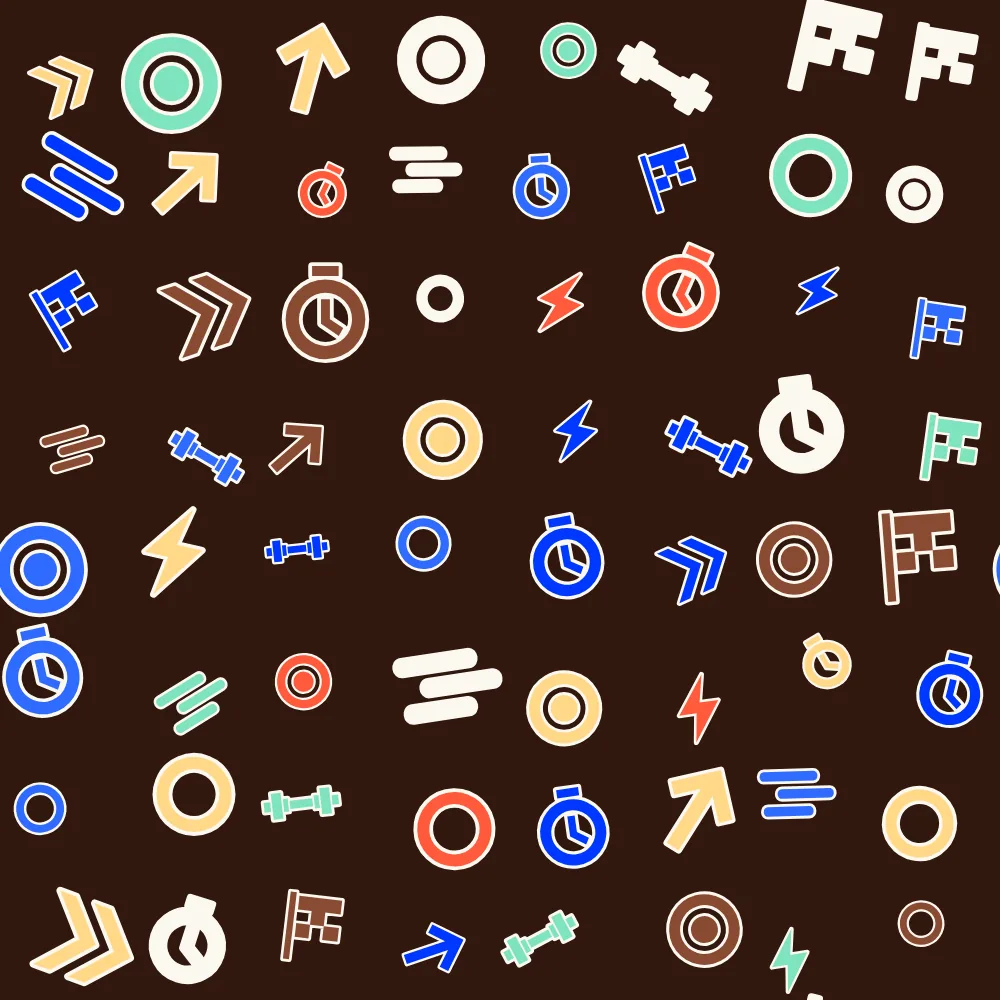
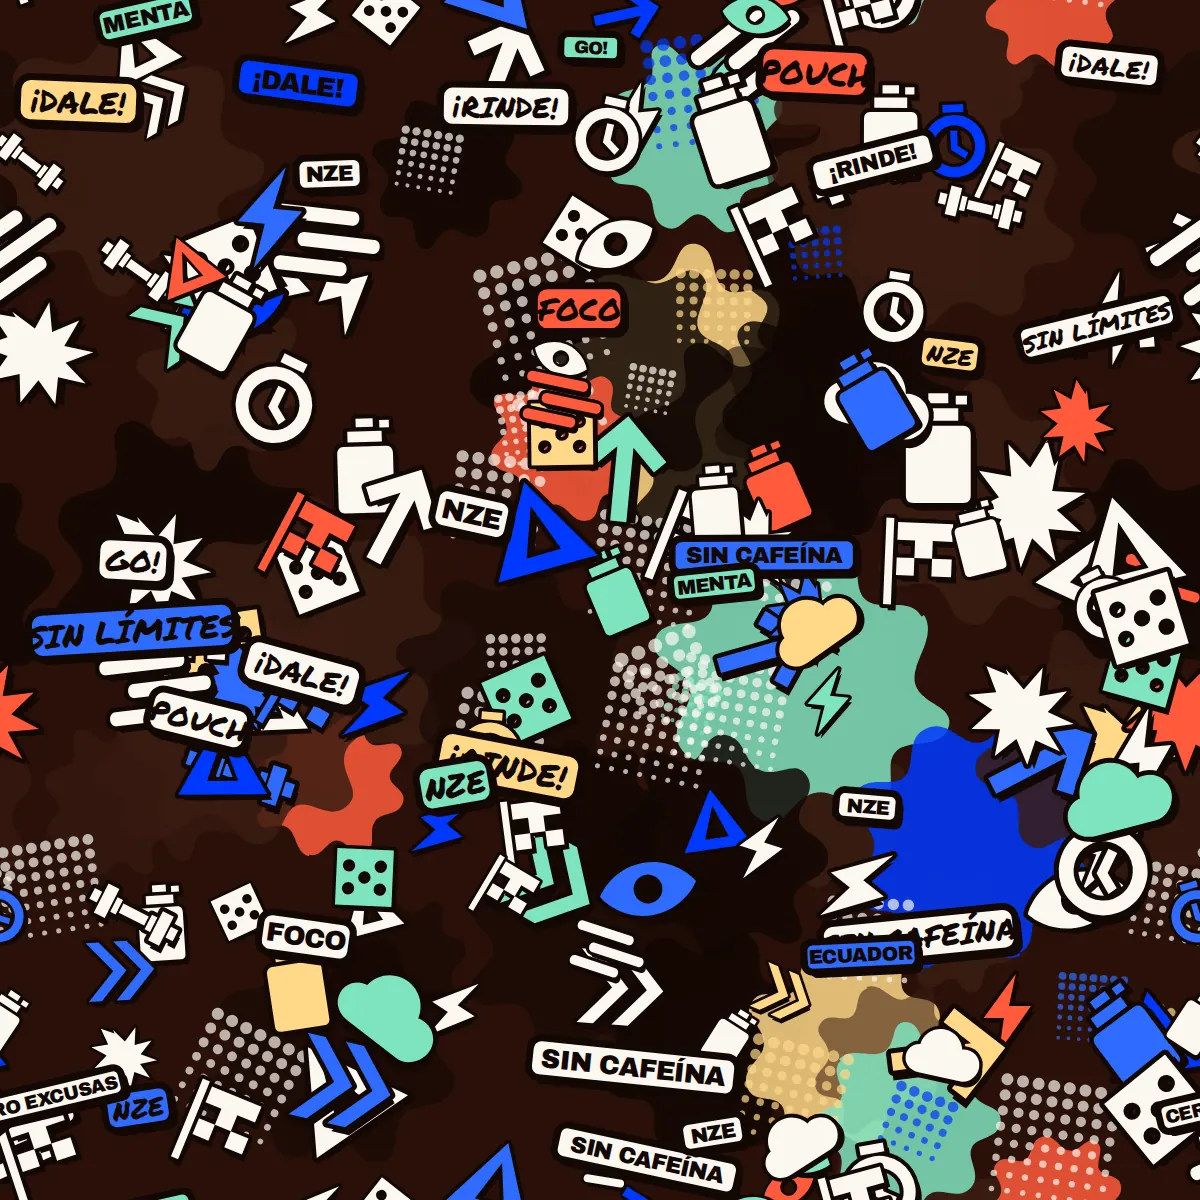
Muro sticker-bomb, sección más grande y módulo "Cuándo usarlos"
- Muro de grafitis rehecho como sticker-bomb denso: manchas, tramas de
  semitono, pegatinas con contorno grueso y sombra dura, y lettering
  propio ("¡RINDE!", "SIN LÍMITES", "FOCO", "NZE"). Empalma en los cuatro
  bordes. La sección crece de 116 a 214 px de relleno y el mosaico se
  amplía para que se lea cada pieza.
- El módulo de efectos pasa a ser "Cuándo usarlos": pestañas
  Entrenamiento, Trabajo, Estudio y Donde sea, cada una con su propia
  imagen, titular y texto. La imagen cambia con un fundido corto.
- Las cuatro portadas se generan en la paleta de marca, una por caso, y
  se cambian desde config.js con una sola línea por imagen.
- Fuera fx.js y el lienzo de fondo: el módulo ya no los usa.

Claude-Session: https://claude.ai/code/session_01KjcFSbWYiSCCsxuhcY9QgS

diff --git a/assets/css/styles.css b/assets/css/styles.css
@@ -61,7 +61,7 @@
    Cada palabra sobre el fondo lleva sombra: una dura pegada y una larga
    difusa. Es lo que hace que el texto parezca una capa encima y no algo
    impreso en la pared. Dentro de las cajas claras se anula. */
-.claim,.h2,.quote,.eyebrow,.lede,.fxpanel__copy,.fxpanel__when,
+.claim,.h2,.quote,.eyebrow,.lede,.uso__copy,.uso__titulo,
 .about__body p,.marks li,.contact b,.contact a,.contact span,
 .order-lite__hint,.flow__ctrl,.hero__kicker,.section-head p{
   text-shadow:var(--lift-txt);
@@ -271,10 +271,10 @@ main section[id]{scroll-margin-top:calc(var(--nav-h) + 16px)}
 /* ────────────────────────────────────── 8. MURO DE PEGATINAS ───────── */
 .muro{
   position:relative; isolation:isolate; overflow:hidden;
-  padding-block:clamp(66px,8.4vw,116px);
+  padding-block:clamp(112px,15vw,214px);
   background-color:var(--tierra-2);
   background-image:url('../img/grafiti.webp');
-  background-size:clamp(420px,46vw,700px);
+  background-size:clamp(520px,58vw,900px);
 }
 .muro__stickers{position:absolute; inset:0; z-index:0; pointer-events:none}
 
@@ -289,8 +289,8 @@ main section[id]{scroll-margin-top:calc(var(--nav-h) + 16px)}
 .muro__inner{position:relative; z-index:2; display:grid; place-items:center; text-align:center}
 /* Halo oscuro detrás de la frase: ninguna pegatina le quita legibilidad */
 .quote::before{
-  content:''; position:absolute; z-index:-1; inset:-14% -12%;
-  background:radial-gradient(closest-side, rgba(20,8,4,.92) 46%, rgba(20,8,4,.66) 72%, transparent);
+  content:''; position:absolute; z-index:-1; inset:-22% -16%;
+  background:radial-gradient(closest-side, rgba(20,8,4,.96) 52%, rgba(20,8,4,.78) 76%, transparent);
 }
 .quote{
   position:relative; display:grid; gap:.1em;
@@ -369,19 +369,9 @@ main section[id]{scroll-margin-top:calc(var(--nav-h) + 16px)}
   position:relative; isolation:isolate; overflow:hidden;
   background:var(--cobalto); border-block:4px solid var(--negro);
 }
-.efectos__canvas{position:absolute; inset:0; width:100%; height:100%; z-index:0; opacity:.5}
-.efectos__media{position:absolute; inset:0; z-index:0}
-.efectos__media video{width:100%; height:100%; object-fit:cover; opacity:.4}
-.efectos__inner{position:relative; z-index:2; display:grid; justify-items:center; text-align:center; gap:clamp(14px,2.2vw,24px)}
-.efectos__inner .h2{max-width:16ch}
-.efectos__panels{display:grid; width:min(100%,58ch); margin-top:6px}
-.fxpanel{grid-area:1/1; display:grid; gap:12px; justify-items:center}
-.fxpanel[hidden]{display:none}
-.fxpanel__when{
-  font-family:var(--marker); font-size:15px; color:var(--menta);
-  transform:rotate(-1.5deg);
-}
-.fxpanel__copy{font-size:clamp(16px,.55vw + 15px,19px); color:var(--crema); text-wrap:pretty}
+.efectos__inner{position:relative; z-index:2; display:grid; justify-items:center; gap:clamp(16px,2.4vw,26px)}
+.efectos__head{display:grid; gap:12px; justify-items:center; text-align:center}
+.efectos__head .h2{max-width:16ch}
 
 .tabs{
   box-shadow:var(--lift-sm);
@@ -409,6 +399,34 @@ main section[id]{scroll-margin-top:calc(var(--nav-h) + 16px)}
   transition:color .3s var(--ease); white-space:nowrap;
 }
 .tab[aria-selected="true"]{color:var(--negro)}
+
+/* Cuándo usarlos: imagen a un lado, texto al otro */
+.usos{
+  display:grid; gap:clamp(20px,3vw,40px); width:100%;
+  margin-top:clamp(8px,1.6vw,16px); align-items:center;
+}
+@media (min-width:860px){.usos{grid-template-columns:minmax(0,1fr) minmax(0,1fr)}}
+.usos__fig{
+  margin:0; border:4px solid var(--negro); border-radius:var(--r-lg);
+  overflow:hidden; box-shadow:var(--lift); background:var(--tierra-2);
+  transform:rotate(-1.2deg);
+}
+.usos__fig img{display:block; width:100%; height:auto; aspect-ratio:4/3; object-fit:cover}
+.usos__panels{display:grid}
+.uso{grid-area:1/1; display:grid; gap:12px; justify-items:start; text-align:left}
+.uso[hidden]{display:none}
+.uso__titulo{
+  font-family:var(--display); font-weight:400;
+  font-size:clamp(20px,2.2vw,30px); line-height:1.08;
+  letter-spacing:-.025em; text-transform:uppercase; text-wrap:balance;
+  text-shadow:var(--lift-display);
+}
+.uso__copy{font-size:clamp(16px,.55vw + 15px,19px); color:var(--crema); text-wrap:pretty; text-shadow:var(--lift-txt)}
+@media (max-width:859px){
+  .uso,.efectos__inner{justify-items:center}
+  .uso{text-align:center}
+}
+
 
 /* ────────────────────────────────────────────── 11. NOSOTROS ───────── */
 .about{display:grid; gap:clamp(28px,4vw,60px); align-items:center}

diff --git a/assets/js/config.js b/assets/js/config.js
@@ -86,30 +86,40 @@ window.TPP = {
   // Cada pestaña tiene su propia animación de fondo, generada en código.
   // Si consigues un clip real para alguna, añade `video: 'assets/video/xxx.mp4'`
   // y esa pestaña lo usará en lugar de la animación.
-  efectos: [
+  /* Cuándo usarlos. Cada caso tiene su propia imagen: para cambiarla,
+     deja el archivo en assets/img/ y apunta aquí la ruta. Nada más. */
+  usos: [
     {
-      id: 'minutos', label: 'Minutos', when: '0 – 10 minutos', tema: 'frost', tono: '#DCEFE2',
-      copy: 'El frescor de la menta llega al primer segundo. Mientras el pouch sigue puesto, ' +
-            'los activos se liberan por la mucosa de la boca, una vía muy vascularizada que entra ' +
-            'a circulación sin pasar primero por el hígado. Enciendes sin haber tomado un mililitro de líquido.',
+      id: 'entrenamiento', label: 'Entrenamiento',
+      foto: 'assets/img/uso-entrenamiento.webp',
+      titulo: 'Diez minutos antes de la primera serie',
+      copy: 'Te lo pones al calentar y ya estás dentro cuando tocas la barra. Sin líquido ' +
+            'que cargar, sin azúcar que te baje a media sesión y sin las manos ocupadas. ' +
+            'Aguanta puesto toda la rutina y lo retiras al terminar.',
     },
     {
-      id: 'horas', label: 'Horas', when: '1 – 3 horas', tema: 'pace', tono: '#DEEAF1',
-      copy: 'La ventana de trabajo. La L-Teanina sostiene una atención tranquila y la L-Tirosina es ' +
-            'el precursor que el cerebro gasta bajo presión. Sin azúcar no hay pico de insulina y, ' +
-            'por tanto, no hay caída reactiva una hora después.',
+      id: 'trabajo', label: 'Trabajo',
+      foto: 'assets/img/uso-trabajo.webp',
+      titulo: 'Para el bloque largo, no para el sprint',
+      copy: 'La L-Teanina sostiene una atención tranquila y la L-Tirosina es el precursor que ' +
+            'el cerebro gasta bajo presión. Al no llevar azúcar no hay pico de insulina y, ' +
+            'por tanto, tampoco la caída de una hora después.',
     },
     {
-      id: 'dias', label: 'Días', when: 'Día tras día', tema: 'pulse', tono: '#F0E4CB',
-      copy: 'Un pouch trae siempre la misma cantidad, así que dejas de adivinar la dosis. Nada que ' +
-            'cargar, nada que enfriar, nada que manche el esmalte. Y si quieres cortar, lo retiras: ' +
-            'con una lata ya te la tomaste.',
+      id: 'estudio', label: 'Estudio',
+      foto: 'assets/img/uso-estudio.webp',
+      titulo: 'Sesiones seguidas sin ir por otro café',
+      copy: 'Cada pouch trae siempre la misma cantidad, así que dejas de adivinar la dosis. ' +
+            'Sin cafeína no te roba el sueño de la noche, que es justo lo que arruina el ' +
+            'estudio del día siguiente.',
     },
     {
-      id: 'largo', label: 'A largo plazo', when: 'A largo plazo', tema: 'climb', tono: '#E3EDDF',
-      copy: 'Cambias la lata azucarada por un formato limpio y controlas tu día real. Cuando lleguen ' +
-            'la línea con cafeína y los electrolitos se cierra el círculo: foco para la cabeza, ' +
-            'energía para arrancar, sales para recuperar.',
+      id: 'donde-sea', label: 'Donde sea',
+      foto: 'assets/img/uso-donde-sea.webp',
+      titulo: 'En el bolsillo, en el bolso o en el carro',
+      copy: 'No se derrama, no hay que enfriarlo y no necesita agua. Carretera, turno largo, ' +
+            'viaje o mudanza: cabe donde quepa una lata pequeña y no deja olor, humo ni ' +
+            'nada que limpiar.',
     },
   ],
 };

diff --git a/assets/js/main.js b/assets/js/main.js
@@ -259,18 +259,16 @@
   resumen();
 
   /* ═══════════════════════════════════════════════ 3. EFECTOS */
-  var fx = window.TPPFx ? window.TPPFx($('#fxField')) : null;
-
-  (function tabs() {
-    var list = $('#fxTabs'), panels = $('#fxPanels'), thumb = $('#fxThumb');
+  (function usos() {
+    var list = $('#fxTabs'), panels = $('#fxPanels'), thumb = $('#fxThumb'), foto = $('#usoFoto');
     if (!list || !panels) return;
-    var datos = cfg.efectos || [];
+    var datos = cfg.usos || [];
 
     panels.innerHTML = datos.map(function (d, i) {
-      return '<div class="fxpanel" id="panel-' + d.id + '" role="tabpanel" ' +
+      return '<div class="uso" id="panel-' + d.id + '" role="tabpanel" ' +
         'aria-labelledby="tab-' + d.id + '" tabindex="0"' + (i ? ' hidden' : '') + '>' +
-        '<p class="fxpanel__when">' + d.when + '</p>' +
-        '<p class="fxpanel__copy">' + d.copy + '</p></div>';
+        '<p class="uso__titulo">' + d.titulo + '</p>' +
+        '<p class="uso__copy">' + d.copy + '</p></div>';
     }).join('');
 
     list.insertAdjacentHTML('beforeend', datos.map(function (d, i) {
@@ -279,7 +277,7 @@
         (i ? ' tabindex="-1"' : '') + '>' + d.label + '</button>';
     }).join(''));
 
-    var btns = $$('.tab', list), media = $('#fxMedia');
+    var btns = $$('.tab', list);
 
     function moveThumb(btn, animate) {
       var x = btn.offsetLeft - list.clientLeft, w = btn.offsetWidth;
@@ -293,7 +291,7 @@
         b.setAttribute('aria-selected', n === i ? 'true' : 'false');
         b.tabIndex = n === i ? 0 : -1;
       });
-      $$('.fxpanel', panels).forEach(function (p, n) {
+      $$('.uso', panels).forEach(function (p, n) {
         if (n === i) {
           p.hidden = false;
           if (hasGsap && animate && !reduced) {
@@ -303,14 +301,16 @@
       });
       moveThumb(btns[i], animate);
 
-      if (media) {
-        if (d.video) { media.innerHTML = '<video src="' + d.video + '" muted playsinline loop autoplay></video>'; media.hidden = false; }
-        else { media.innerHTML = ''; media.hidden = true; }
+      /* La imagen del caso: se cambia con un fundido corto */
+      if (foto && d.foto && foto.getAttribute('src') !== d.foto) {
+        var cambia = function () { foto.src = d.foto; foto.alt = d.titulo; };
+        if (hasGsap && animate && !reduced) {
+          gsap.to(foto, { autoAlpha: 0, duration: .18, onComplete: function () {
+            cambia();
+            gsap.to(foto, { autoAlpha: 1, duration: .32 });
+          } });
+        } else cambia();
       }
-      if (fx && !d.video) fx.setTema(d.tema);
-
-      var sec = document.getElementById('efectos');
-      if (d.tono && sec) sec.style.setProperty('--bg', d.tono);
     }
 
     btns.forEach(function (b, i) {

diff --git a/index.html b/index.html
@@ -125,17 +125,21 @@
 
 <!-- ═══════════════════════════════════════════════════ EFECTOS -->
 <section class="section efectos" id="efectos" aria-labelledby="efectosTitle">
-  <canvas class="efectos__canvas" id="fxField" aria-hidden="true"></canvas>
-  <div class="efectos__media" id="fxMedia" aria-hidden="true" hidden></div>
-
   <div class="wrap efectos__inner">
-    <p class="eyebrow" data-anim="fx">Cuándo actúa</p>
-    <h2 class="h2" id="efectosTitle" data-anim="fx">Efectos <em class="tag tag--arena tag--sm">inmediatos</em></h2>
+    <div class="efectos__head">
+      <p class="eyebrow" data-anim="fx">Cuándo usarlos</p>
+      <h2 class="h2" id="efectosTitle" data-anim="fx">Para <em class="tag tag--arena tag--sm">tu día</em></h2>
+    </div>
 
-    <div class="efectos__panels" id="fxPanels" data-anim="fx"></div>
-
-    <div class="tabs" role="tablist" aria-label="Cuándo actúa" id="fxTabs" data-anim="fx">
+    <div class="tabs" role="tablist" aria-label="Cuándo usarlos" id="fxTabs" data-anim="fx">
       <span class="tabs__thumb" id="fxThumb" aria-hidden="true"></span>
+    </div>
+
+    <div class="usos" data-anim="fx">
+      <figure class="usos__fig">
+        <img id="usoFoto" src="assets/img/uso-entrenamiento.webp" alt="" width="1200" height="900" loading="lazy" decoding="async">
+      </figure>
+      <div class="usos__panels" id="fxPanels"></div>
     </div>
   </div>
 </section>
@@ -366,7 +370,6 @@
 <script src="assets/js/vendor/ScrollTrigger.min.js"></script>
 <script src="assets/js/config.js"></script>
 <script src="assets/js/stickers.js"></script>
-<script src="assets/js/fx.js"></script>
 <script src="assets/js/checkout.js"></script>
 <script src="assets/js/main.js"></script>
 </body>

diff --git a/README.md b/README.md
@@ -66,6 +66,7 @@ Abre **`assets/js/config.js`**. Todo lo editable está ahí y en un solo lugar:
 | `producto.foto` | Ruta de la foto del producto. Si el archivo no existe, la web dibuja una lata de respaldo y no se rompe nada |
 | `efectos` | Las cuatro pestañas del módulo de efectos. Cada una trae su animación (`tema`) y su tono de página (`tono`). Si le pones `video`, ese clip sustituye a la animación |
 | `envios`, `descuentos`, `packs` | Tarifas, códigos y precios del pedido |
+| `usos` | Los cuatro casos de "Cuándo usarlos": botón, titular, texto y **ruta de la imagen** |
 
 No hace falta tocar HTML para cambiar precios, nombres ni textos del producto.
 
@@ -77,11 +78,10 @@ assets/css/styles.css      Sistema de diseño y todos los estilos
 assets/css/fonts.css       Fraunces · Instrument Sans (autoalojadas)
 assets/js/config.js        ⚙ Configuración: contacto, producto, vitrina, packs, envíos
 assets/js/checkout.js      Cálculo del pedido y enlace de WhatsApp
-assets/js/fx.js            Animaciones del módulo de efectos (una por pestaña)
 assets/js/stickers.js      Las pegatinas del muro (velocidad y atletismo), en SVG
 assets/js/main.js          Comportamiento y animación de la página
 assets/js/vendor/          GSAP + ScrollTrigger alojados en el proyecto
-assets/img/                Logo, iconos, foto del producto y latas de "próximamente"
+assets/img/                Logo, iconos, foto del producto, portadas de uso y grafiti
 assets/img/atletas/        Fotos de la banda de atletas (ver aviso abajo)
 assets/img/marmol-*.webp   Texturas de piedra generadas, una por color de módulo
 assets/fonts/              Tipografías (no dependen de Google Fonts)
@@ -92,7 +92,7 @@ DEPLOY.md                  Cómo publicarlo en Vercel
 ```
 
 Los módulos, en orden: hero con el eslogan sobre vídeo · cintillo · muro de pegatinas ·
-vitrina de producto · efectos por pestañas · bloque mitad y mitad · preguntas · cierre
+vitrina de producto · cuándo usarlos por pestañas · bloque mitad y mitad · preguntas · cierre
 de venta (abre el cajón lateral) · pie con el rótulo grande, que además es el botón de
 volver al inicio.
 
